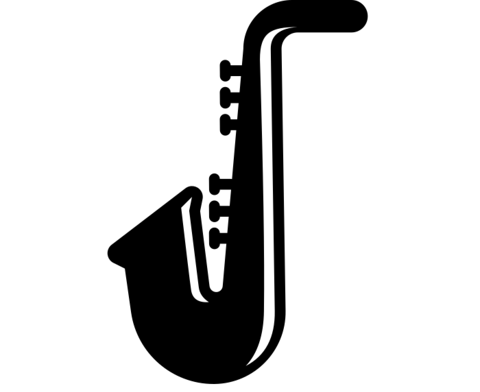
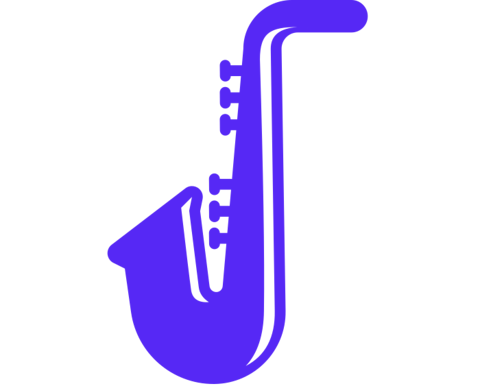
added hover effects to genre images/text on homepage..

Changed region(s): [[0.2188, 0.0, 0.7812, 0.9796]]

diff --git a/app/assets/stylesheets/pages/_home.scss b/app/assets/stylesheets/pages/_home.scss
@@ -8,6 +8,23 @@
   width: 150px;
   margin-bottom: 20px;
 }
+.grow { 
+  transition: all .2s ease-in-out; 
+  filter: brightness(0);
+  
+  }
+  
+  .grow:hover { 
+  transform: scale(1.1); 
+  outline-width: 1rem;
+  filter: brightness(1)
+  }
+
+  .grow h4 {
+    color: $indigo;
+  }
+
+
 
 .home-heading {
   display: inline-block;
@@ -15,7 +32,7 @@
   padding-bottom: 3px;
   margin-bottom: 40px;
   margin-top: 120px;
-
+  
 }
 
 .home-body {

diff --git a/app/assets/stylesheets/components/_card.scss b/app/assets/stylesheets/components/_card.scss
@@ -96,6 +96,8 @@
   left: 318px;
   right: 0;
   bottom: -40px;
+  z-index: -1;
+  top:-99px;
 }
 
 .error {
